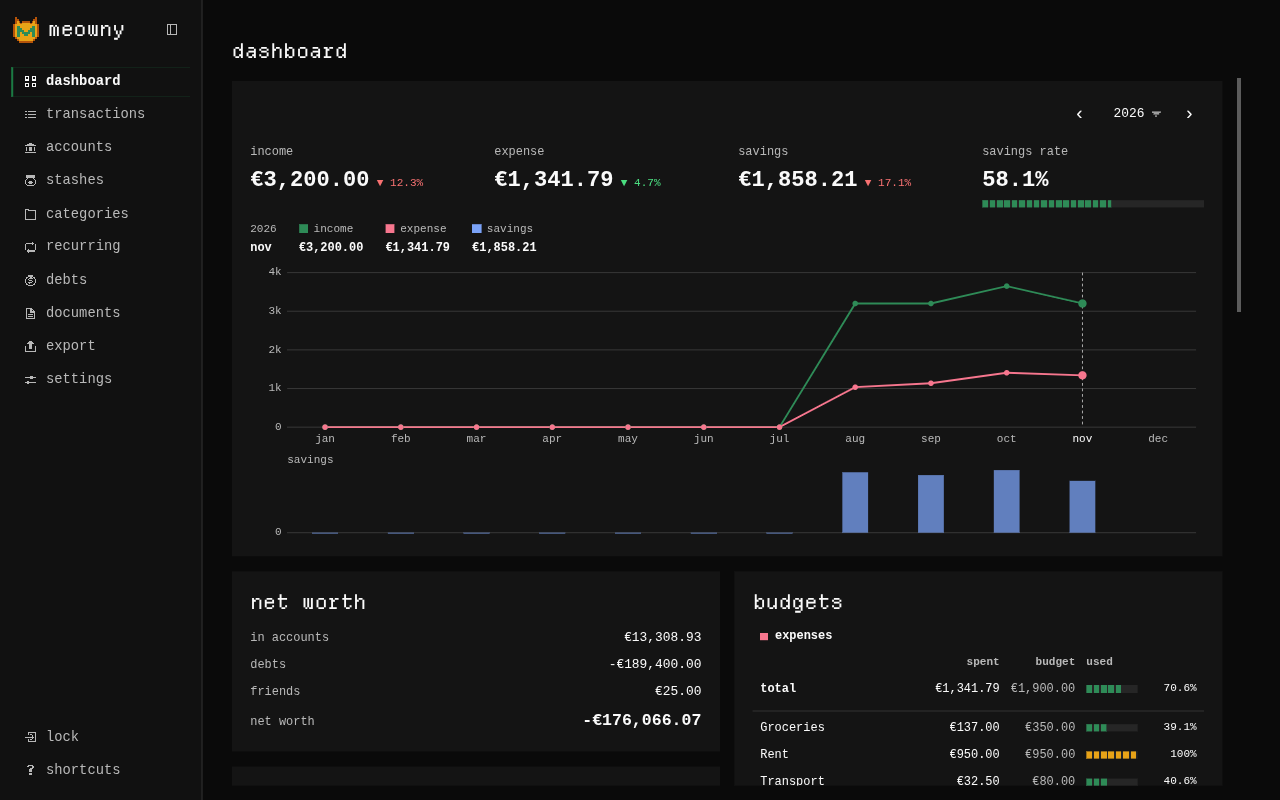
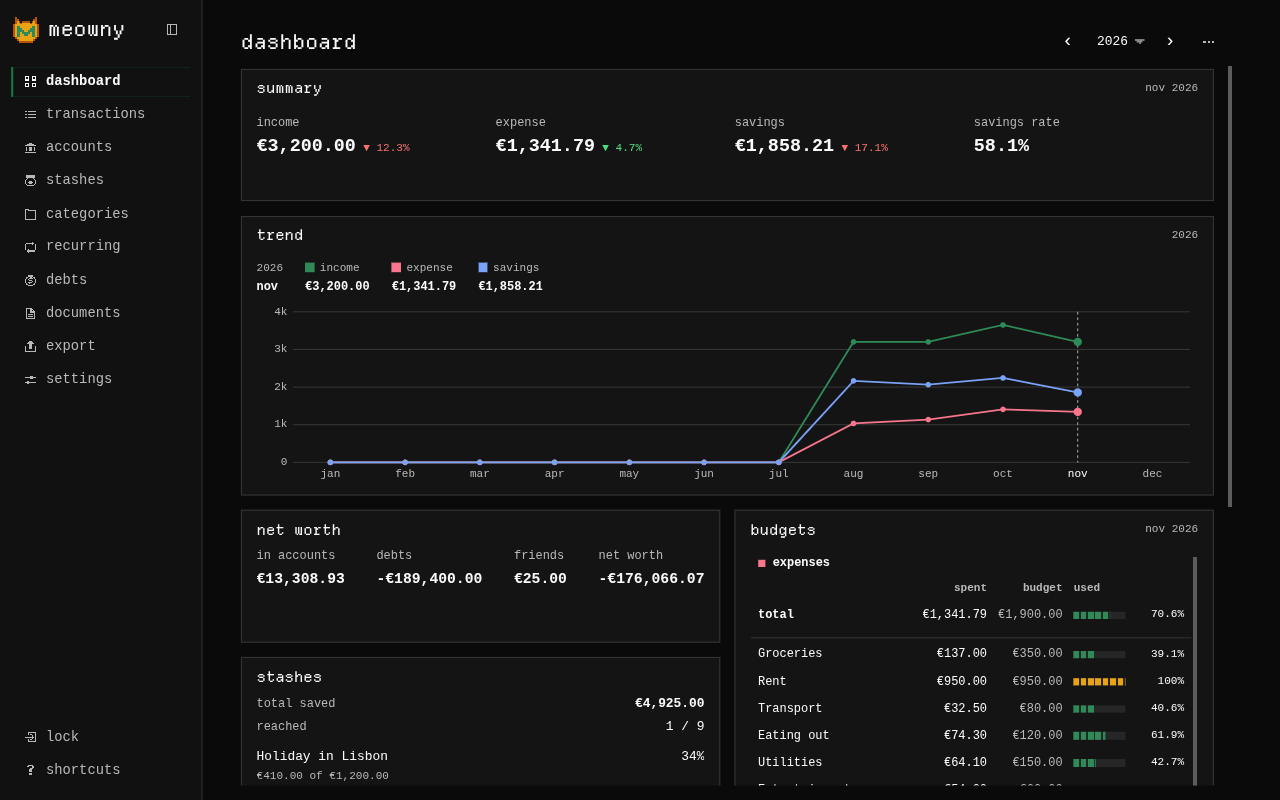
docs: customize the dashboard in numbered steps, the eighteen widgets, and the dashboard screenshots

diff --git a/README.md b/README.md
@@ -29,6 +29,7 @@ meowNY is a local-first budget app for your computer and your phone. It is a [Ta
 ## Features
 
 - **Budgeting:** categories, monthly budgets, recurring items and statistics. Expense, income and transfer share one add dialog.
+- **Dashboard:** a dashboard you arrange, with 18 widgets.
 - **Accounts:** bank, savings, cash and credit card, with groups, other currencies, return rates, transfers and net worth.
 - **Stashes:** money set aside in an account for a goal, or a term deposit at a rate.
 - **Documents:** receipts and invoices attached to transactions, encrypted, previewed inside the app.
